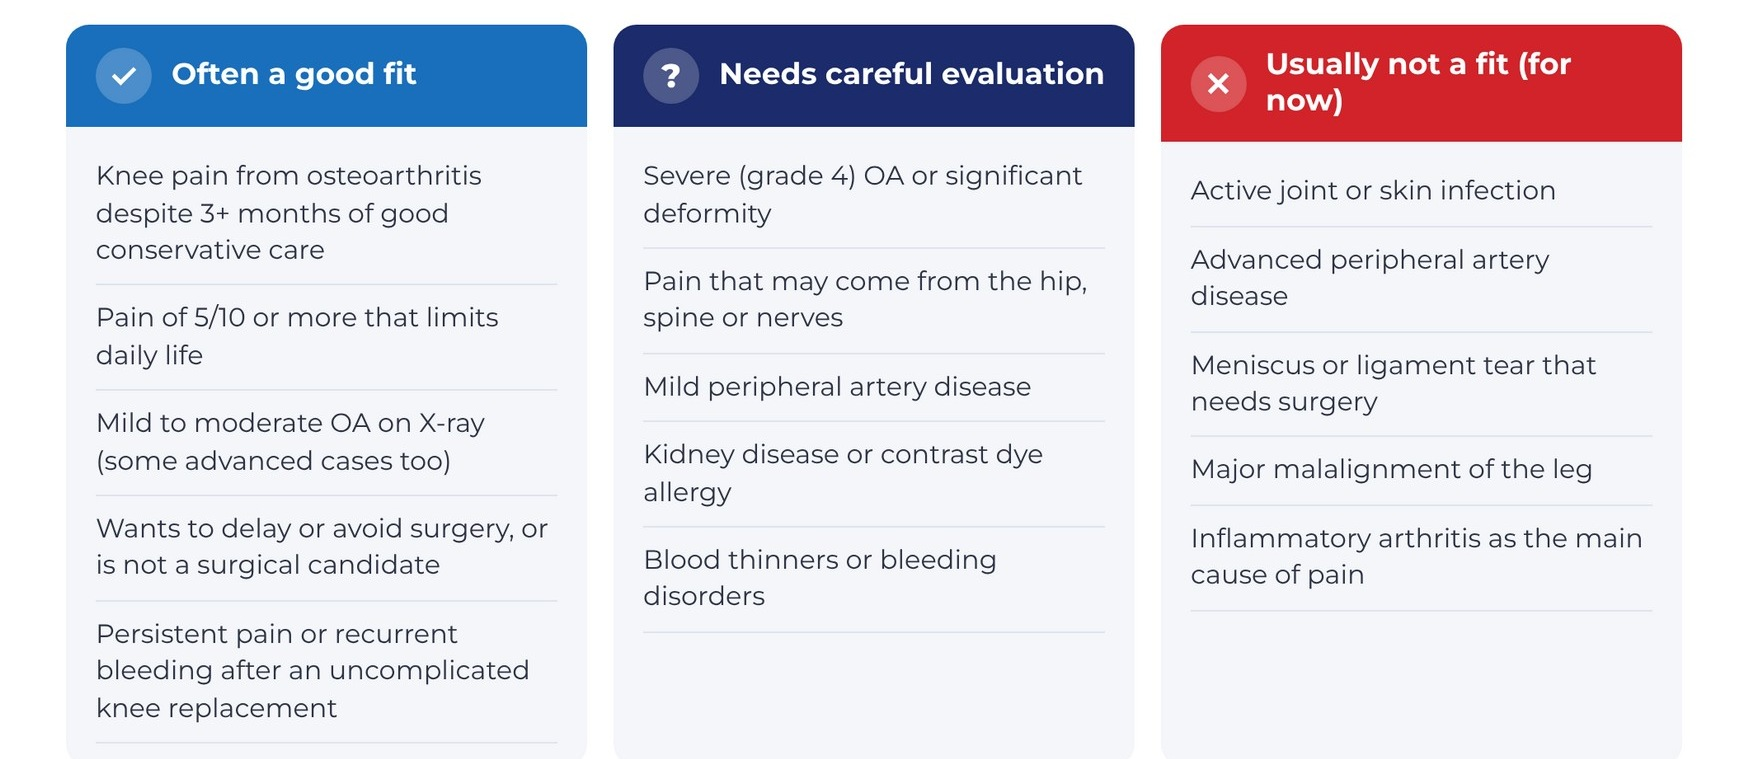
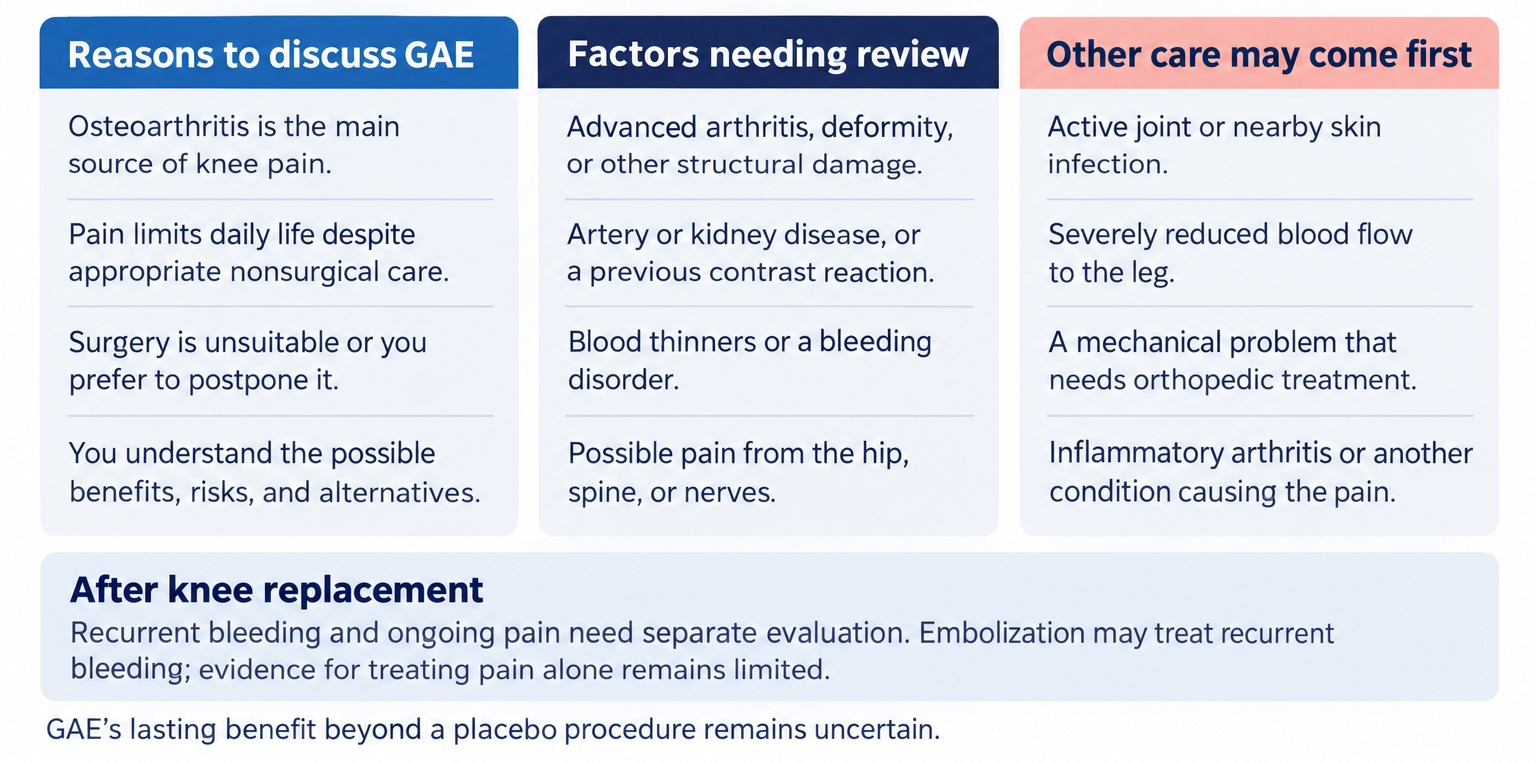
Flip J17a: new could-GAE-be-an-option illustration; align talking points
Claude-Session: https://claude.ai/code/session_011FeJdRfmDCgTZcMtNMgwbg

diff --git a/js/templates.js b/js/templates.js
@@ -811,7 +811,7 @@ window.AJPVC_TEMPLATES = [
     "label": "J17a · Is GAE Right for Me? (patient side)",
     "w": 1056,
     "h": 816,
-    "html": "<div style=\"width: 1056px; height: 816px; box-sizing: border-box; background: #FFFEFB; color: #1B2440; font-family: 'Public Sans', sans-serif; display: flex; flex-direction: column; padding: 34px 44px 26px; gap: 20px\">\n<div style=\"display: flex; justify-content: space-between; align-items: flex-end; gap: 24px; border-bottom: 5px solid #C8231E; padding-bottom: 14px\">\n<div style=\"display: flex; flex-direction: column; gap: 4px\"><p style=\"margin: 0; font-family: 'Montserrat', sans-serif; font-weight: 700; font-size: 15px; letter-spacing: 3px; text-transform: uppercase; color: #C8231E\">Joint pain</p>\n<h1 style=\"margin: 0; font-family: 'Montserrat', sans-serif; font-weight: 800; font-size: 44px; line-height: 1.05; color: #16306E\">Is GAE Right for Me?</h1></div>\n<div style=\"display: flex; align-items: center; gap: 14px\"><img src=\"assets/logo-hvlc.png\" alt=\"Heart Vascular &amp; Leg Center logo\" style=\"height: 34px; width: 78px; object-fit: contain; object-position: left center\"><span style=\"width: 1px; height: 27px; background: #E2DED4\"></span><img src=\"assets/logo-long-nodivision.png\" alt=\"Advanced Joint Pain &amp; Vascular Center logo\" style=\"height: 34px; width: 129px; object-fit: contain; object-position: left center\"></div></div>\n<main style=\"flex: 1; min-height: 0; display: flex; flex-direction: column; gap: 16px\"><div style=\"flex: 1; min-height: 0; display: flex; flex-direction: column; gap: 10px\"><div style=\"flex: 1; min-height: 0; min-width: 0; background: #FFFFFF; border-radius: 18px; overflow: hidden; display: flex\"><img src=\"assets/book-candidate.jpg\" alt=\"Three-column guide: often a good fit, needs careful evaluation, and usually not a fit for GAE\" style=\"width: 100%; height: 100%; object-fit: contain; object-position: 50% 50%; display: block\"></div></div><div style=\"display: flex; gap: 24px\"><div style=\"flex: 1; min-width: 0; display: flex; gap: 12px; align-items: flex-start; border-top: 4px solid #C8231E; padding-top: 12px\"><p style=\"margin: 0; font-size: 22px; line-height: 1.32; color: #1B2440\">Good fit: knee arthritis pain despite 3+ months of good care.</p></div><div style=\"flex: 1; min-width: 0; display: flex; gap: 12px; align-items: flex-start; border-top: 4px solid #C8231E; padding-top: 12px\"><p style=\"margin: 0; font-size: 22px; line-height: 1.32; color: #1B2440\">Pain from your hip, back, or nerves needs a closer look.</p></div><div style=\"flex: 1; min-width: 0; display: flex; gap: 12px; align-items: flex-start; border-top: 4px solid #C8231E; padding-top: 12px\"><p style=\"margin: 0; font-size: 22px; line-height: 1.32; color: #1B2440\">An infection or a tear needing surgery usually rules it out.</p></div></div></main></div>"
+    "html": "<div style=\"width: 1056px; height: 816px; box-sizing: border-box; background: #FFFEFB; color: #1B2440; font-family: 'Public Sans', sans-serif; display: flex; flex-direction: column; padding: 34px 44px 26px; gap: 20px\">\n<div style=\"display: flex; justify-content: space-between; align-items: flex-end; gap: 24px; border-bottom: 5px solid #C8231E; padding-bottom: 14px\">\n<div style=\"display: flex; flex-direction: column; gap: 4px\"><p style=\"margin: 0; font-family: 'Montserrat', sans-serif; font-weight: 700; font-size: 15px; letter-spacing: 3px; text-transform: uppercase; color: #C8231E\">Joint pain</p>\n<h1 style=\"margin: 0; font-family: 'Montserrat', sans-serif; font-weight: 800; font-size: 44px; line-height: 1.05; color: #16306E\">Is GAE Right for Me?</h1></div>\n<div style=\"display: flex; align-items: center; gap: 14px\"><img src=\"assets/logo-hvlc.png\" alt=\"Heart Vascular &amp; Leg Center logo\" style=\"height: 34px; width: 78px; object-fit: contain; object-position: left center\"><span style=\"width: 1px; height: 27px; background: #E2DED4\"></span><img src=\"assets/logo-long-nodivision.png\" alt=\"Advanced Joint Pain &amp; Vascular Center logo\" style=\"height: 34px; width: 129px; object-fit: contain; object-position: left center\"></div></div>\n<main style=\"flex: 1; min-height: 0; display: flex; flex-direction: column; gap: 16px\"><div style=\"flex: 1; min-height: 0; display: flex; flex-direction: column; gap: 10px\"><div style=\"flex: 1; min-height: 0; min-width: 0; background: #FFFFFF; border-radius: 18px; overflow: hidden; display: flex\"><img src=\"assets/book-candidate.jpg\" alt=\"Three columns on whether GAE could be an option: reasons to discuss GAE, factors needing review, and when other care may come first, plus a note about pain after knee replacement\" style=\"width: 100%; height: 100%; object-fit: contain; object-position: 50% 50%; display: block\"></div></div><div style=\"display: flex; gap: 24px\"><div style=\"flex: 1; min-width: 0; display: flex; gap: 12px; align-items: flex-start; border-top: 4px solid #C8231E; padding-top: 12px\"><p style=\"margin: 0; font-size: 22px; line-height: 1.32; color: #1B2440\">Worth discussing: knee arthritis pain despite good care.</p></div><div style=\"flex: 1; min-width: 0; display: flex; gap: 12px; align-items: flex-start; border-top: 4px solid #C8231E; padding-top: 12px\"><p style=\"margin: 0; font-size: 22px; line-height: 1.32; color: #1B2440\">Pain from your hip, back, or nerves needs a closer look.</p></div><div style=\"flex: 1; min-width: 0; display: flex; gap: 12px; align-items: flex-start; border-top: 4px solid #C8231E; padding-top: 12px\"><p style=\"margin: 0; font-size: 22px; line-height: 1.32; color: #1B2440\">Infection or a problem needing surgery may come first.</p></div></div></main></div>"
    },
    {
     "label": "J17b · Is GAE Right for Me? (provider side)",

diff --git a/source/FlipJ17Candidate.dc.html b/source/FlipJ17Candidate.dc.html
@@ -18,7 +18,7 @@ body{margin:0}
 <div style="display: flex; flex-direction: column; gap: 4px"><p style="margin: 0; font-family: 'Montserrat', sans-serif; font-weight: 700; font-size: 15px; letter-spacing: 3px; text-transform: uppercase; color: #C8231E">Joint pain</p>
 <h1 style="margin: 0; font-family: 'Montserrat', sans-serif; font-weight: 800; font-size: 44px; line-height: 1.05; color: #16306E">Is GAE Right for Me?</h1></div>
 <div style="display: flex; align-items: center; gap: 14px"><img src="/_blob/1e4ce51a5c3cb793b6317890e43e495e" alt="Heart Vascular &amp; Leg Center logo" style="height: 34px; width: 78px; object-fit: contain; object-position: left center"><span style="width: 1px; height: 27px; background: #E2DED4"></span><img src="/_blob/48c0202744b17fe1f033a36586de7a92" alt="Advanced Joint Pain &amp; Vascular Center logo" style="height: 34px; width: 129px; object-fit: contain; object-position: left center"></div></div>
-<main style="flex: 1; min-height: 0; display: flex; flex-direction: column; gap: 16px"><div style="flex: 1; min-height: 0; display: flex; flex-direction: column; gap: 10px"><div style="flex: 1; min-height: 0; min-width: 0; background: #FFFFFF; border-radius: 18px; overflow: hidden; display: flex"><img src="/_blob/065b8a0fcd15279b8ad265b0bceebc8c" alt="Three-column guide: often a good fit, needs careful evaluation, and usually not a fit for GAE" style="width: 100%; height: 100%; object-fit: contain; object-position: 50% 50%; display: block"></div></div><div style="display: flex; gap: 24px"><div style="flex: 1; min-width: 0; display: flex; gap: 12px; align-items: flex-start; border-top: 4px solid #C8231E; padding-top: 12px"><p style="margin: 0; font-size: 22px; line-height: 1.32; color: #1B2440">Good fit: knee arthritis pain despite 3+ months of good care.</p></div><div style="flex: 1; min-width: 0; display: flex; gap: 12px; align-items: flex-start; border-top: 4px solid #C8231E; padding-top: 12px"><p style="margin: 0; font-size: 22px; line-height: 1.32; color: #1B2440">Pain from your hip, back, or nerves needs a closer look.</p></div><div style="flex: 1; min-width: 0; display: flex; gap: 12px; align-items: flex-start; border-top: 4px solid #C8231E; padding-top: 12px"><p style="margin: 0; font-size: 22px; line-height: 1.32; color: #1B2440">An infection or a tear needing surgery usually rules it out.</p></div></div></main></div>
+<main style="flex: 1; min-height: 0; display: flex; flex-direction: column; gap: 16px"><div style="flex: 1; min-height: 0; display: flex; flex-direction: column; gap: 10px"><div style="flex: 1; min-height: 0; min-width: 0; background: #FFFFFF; border-radius: 18px; overflow: hidden; display: flex"><img src="/_blob/383fba5dcb8c73ad4772dcad0a2b4971" alt="Three columns on whether GAE could be an option: reasons to discuss GAE, factors needing review, and when other care may come first, plus a note about pain after knee replacement" style="width: 100%; height: 100%; object-fit: contain; object-position: 50% 50%; display: block"></div></div><div style="display: flex; gap: 24px"><div style="flex: 1; min-width: 0; display: flex; gap: 12px; align-items: flex-start; border-top: 4px solid #C8231E; padding-top: 12px"><p style="margin: 0; font-size: 22px; line-height: 1.32; color: #1B2440">Worth discussing: knee arthritis pain despite good care.</p></div><div style="flex: 1; min-width: 0; display: flex; gap: 12px; align-items: flex-start; border-top: 4px solid #C8231E; padding-top: 12px"><p style="margin: 0; font-size: 22px; line-height: 1.32; color: #1B2440">Pain from your hip, back, or nerves needs a closer look.</p></div><div style="flex: 1; min-width: 0; display: flex; gap: 12px; align-items: flex-start; border-top: 4px solid #C8231E; padding-top: 12px"><p style="margin: 0; font-size: 22px; line-height: 1.32; color: #1B2440">Infection or a problem needing surgery may come first.</p></div></div></main></div>
 </x-dc>
 <script type="text/x-dc" data-dc-script data-props='{"$preview":{"width":1056,"height":816}}'>
 class Component extends DCLogic {
